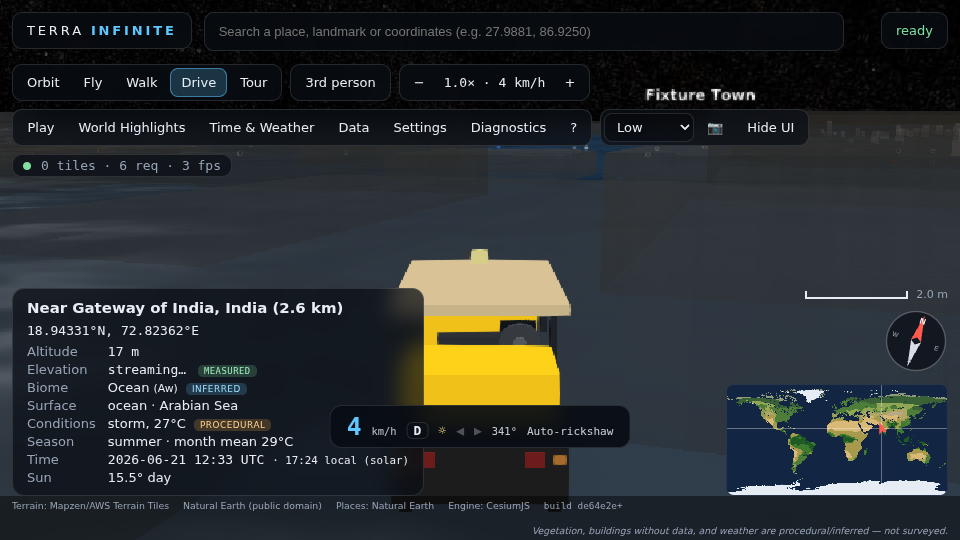
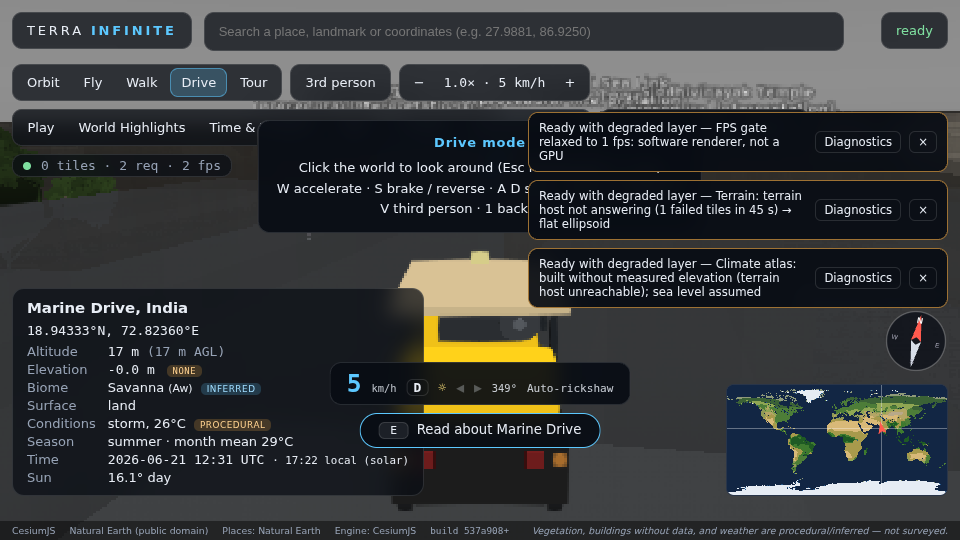
Vehicles: outrank wide-radius prompts for enter/exit, add rickshaw rain-dashboard and Marine Drive screenshots
Claude-Session: https://claude.ai/code/session_01TdQEQhqurkLs2JrVkakGLt

diff --git a/src/gameplay/vehicles/VehicleSystem.ts b/src/gameplay/vehicles/VehicleSystem.ts
@@ -506,11 +506,13 @@ export class VehicleSystem implements GameplaySystem {
     const p = ctx.player;
     if (this.active) {
       const speed = Math.abs(this.lastSpeed);
-      if (speed < 0.5) out.push({ id: 'vehicle:exit', label: 'Exit vehicle', lat: p.lat, lon: p.lon, radiusM: 50, modes: ['drive'], run: () => this.exit() });
+      // Priorities: leaving the driver's seat beats sightseeing prompts from other systems (boarding, reading about
+      // a landmark) that also reach into drive mode; the time-trial start gate beats the exit prompt.
+      if (speed < 0.5) out.push({ id: 'vehicle:exit', label: 'Exit vehicle', lat: p.lat, lon: p.lon, radiusM: 50, modes: ['drive'], priority: 3, run: () => this.exit() });
       TIME_TRIAL_COURSES.forEach((c, i) => {
         const s = c.checkpoints[0];
-        if (this.trial) out.push({ id: `trial:${c.id}:abort`, label: 'Abort time trial', lat: p.lat, lon: p.lon, radiusM: 50, modes: ['drive'], priority: -1, run: () => this.endTrial(false) });
-        else out.push({ id: `trial:${c.id}:start`, label: `Start time trial — ${c.name} (closed course)`, lat: s.lat, lon: s.lon, radiusM: 30, modes: ['drive'], priority: 2, run: () => this.startTrial(i, performance.now()) });
+        if (this.trial) out.push({ id: `trial:${c.id}:abort`, label: 'Abort time trial', lat: p.lat, lon: p.lon, radiusM: 50, modes: ['drive'], priority: 2, run: () => this.endTrial(false) });
+        else out.push({ id: `trial:${c.id}:start`, label: `Start time trial — ${c.name} (closed course)`, lat: s.lat, lon: s.lon, radiusM: 30, modes: ['drive'], priority: 4, run: () => this.startTrial(i, performance.now()) });
       });
       return out;
     }
@@ -518,7 +520,8 @@ export class VehicleSystem implements GameplaySystem {
       if (!v.body || v.groundM === null) continue;
       if (distanceM(p.lat, p.lon, v.lat, v.lon) > 60) continue;
       const spec = vehicleSpec(v.kind);
-      out.push({ id: `vehicle:enter:${v.id}`, label: `Enter ${spec.name}`, lat: v.lat, lon: v.lon, radiusM: Math.max(4.5, spec.lengthM / 2 + 2.2), modes: ['walk'], run: () => this.enter(v) });
+      // Standing right next to a car is a deliberate choice: outrank wide-radius prompts from other systems.
+      out.push({ id: `vehicle:enter:${v.id}`, label: `Enter ${spec.name}`, lat: v.lat, lon: v.lon, radiusM: Math.max(4.5, spec.lengthM / 2 + 2.2), modes: ['walk'], priority: 3, run: () => this.enter(v) });
     }
     return out;
   }

diff --git a/docs/tracks/vehicles.md b/docs/tracks/vehicles.md
@@ -8,7 +8,7 @@ pedestrians, generated showrooms with inspect cameras and test drives, and a clo
 | Feature | Where | Verified by |
 |---|---|---|
 | Vehicle catalog: hatchback, sedan, SUV, coupé, bus, taxi, truck, auto-rickshaw — dimensions, paints, `DriveParams`, wheels, lamps, engine audio profile, horn, door point, spec sheet | `src/gameplay/vehicles/catalog.ts` | `tests/unit/vehicles/catalog.test.ts` (envelope, wheels, lamps, roof lights, notes) |
-| Primitive bodies built once and moved by model matrices: chassis/cabin, translucent glass, wheels that spin and steer, head/tail/brake/indicator/roof lamps, night beams, dashboard + steering wheel + wipers, paint darkening | `VehicleBody.ts` | e2e screenshots `docs/screenshots/vehicle-driving-third.png`, `vehicle-dashboard.png` |
+| Primitive bodies built once and moved by model matrices: chassis/cabin, translucent glass, wheels that spin and steer, head/tail/brake/indicator/roof lamps, night beams, dashboard + steering wheel + wipers, paint darkening | `VehicleBody.ts` | screenshots `docs/screenshots/vehicle-driving-third.png` (rickshaw at Marine Drive, fixtures), `vehicle-driving-gateway.png` (e2e), `vehicle-dashboard.png` (bus, e2e), `vehicle-dashboard-rickshaw-rain.png` (wipers/rain), `vehicle-night-third.png` (headlights, roof light, beams) |
 | Parked vehicles (3 per spawn point, showroom forecourts, time-trial start), pooled by distance; "Enter <vehicle>" → drive; "Exit vehicle" while stopped → walk by the door | `VehicleSystem.ts` | `tests/e2e/vehicles.spec.ts` test 1 |
 | Cameras (C: third → first → dashboard), gear display P/R/N/D, speed + heading + destination bearing in `gameplay.vehicle`, headlights (L, auto at dusk), indicators (Q/R), hazards (Z), horn (H, WebAudio), wipers in rain, tyre spray when wet, wet-grip reduction, non-graphic damage, 4 s stuck reset with fade to the nearest road point / 5 m back, engine + road + horn audio through `AmbientAudio.bus` | `VehicleSystem.ts`, `VehicleAudio.ts`, `logic.ts` | unit tests for gear/stuck/grip/impact/lamps/nearest road; e2e test 1 drives 5 s (speed > 0, gear D), toggles dashboard camera, indicator and headlights, exits to walk mode |
 | Ambient traffic: junction graph (shared nodes + inserted crossings), two-phase signals with clearance, left-lane keeping, flow through junctions, car following, emergency braking for the player and pedestrians, density by local hour and place population, full simulation within 400 m, coarse to 1.5 km, frozen beyond; 3D bodies lent by the vehicle system to the nearest traffic | `src/world/traffic/TrafficLayer.ts`, `roadGraph.ts` | `tests/unit/vehicles/roadGraph.test.ts`, `logic.test.ts`; e2e asserts intersections > 0, signals > 0, simulated > 0, pedestrians > 0, bodies3d > 0 |
@@ -19,6 +19,9 @@ pedestrians, generated showrooms with inspect cameras and test drives, and a clo
 Commands run before every commit: `npm run typecheck && npm run lint && npm test` (all green after merging `main`: 398 unit tests, 36 of them from this track).
 E2E: `TERRA_E2E_DEV=1 TERRA_E2E_PORT=5180 npx playwright test tests/e2e/vehicles.spec.ts` against
 `TERRA_FIXTURES=1 npx vite --port 5180` — both tests pass (about 11 minutes on SwiftShader).
+
+Prompt priorities: "Enter <vehicle>" and "Exit vehicle" use priority 3 so they outrank wide-radius prompts from other
+systems (ferry boarding at the Gateway is priority 2); the time-trial start gate is 4, abort 2.
 
 ## Additive hooks (documented in `docs/PLAN_MAHARASHTRA.md`)
 

diff --git a/PROJECT_STATUS.md b/PROJECT_STATUS.md
@@ -300,7 +300,7 @@ Full summary: `docs/tracks/journeys.md`.
   → stop → exit → walk mode; traffic stats show junctions, signals, lent bodies (and pedestrians when no crowd
   system is registered); Worli showroom
   builds, inspect overlay opens, orbit camera runs, test drive seats the player. Screenshots in `docs/screenshots/`
-  (`vehicle-driving-third.png`, `vehicle-driving-gateway.png`, `vehicle-dashboard.png`, `vehicle-night-third.png`,
+  (`vehicle-driving-third.png`, `vehicle-driving-gateway.png`, `vehicle-dashboard.png`, `vehicle-dashboard-rickshaw-rain.png`, `vehicle-night-third.png`,
   `showroom-floor.png`, `showroom-inspect.png`, `showroom-orbit.png`, `showroom-testdrive.png`, `time-trial-start.png`,
   `time-trial-finish.png`).
 
